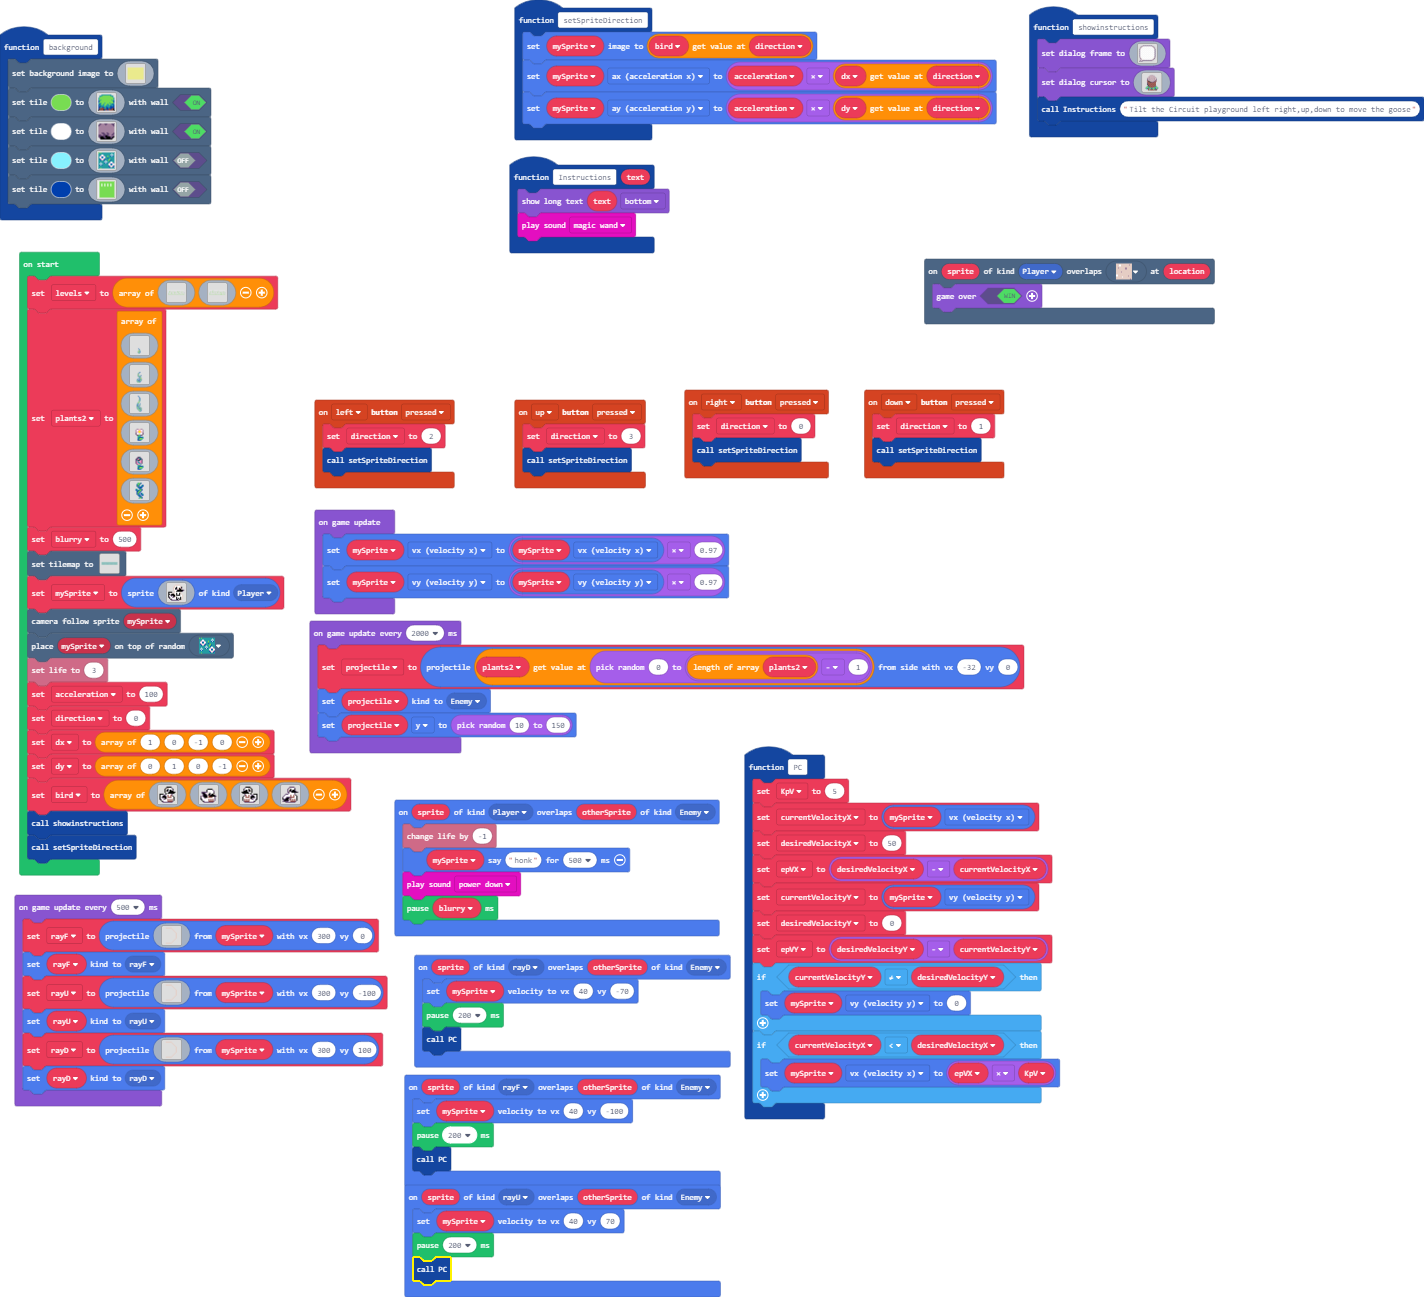
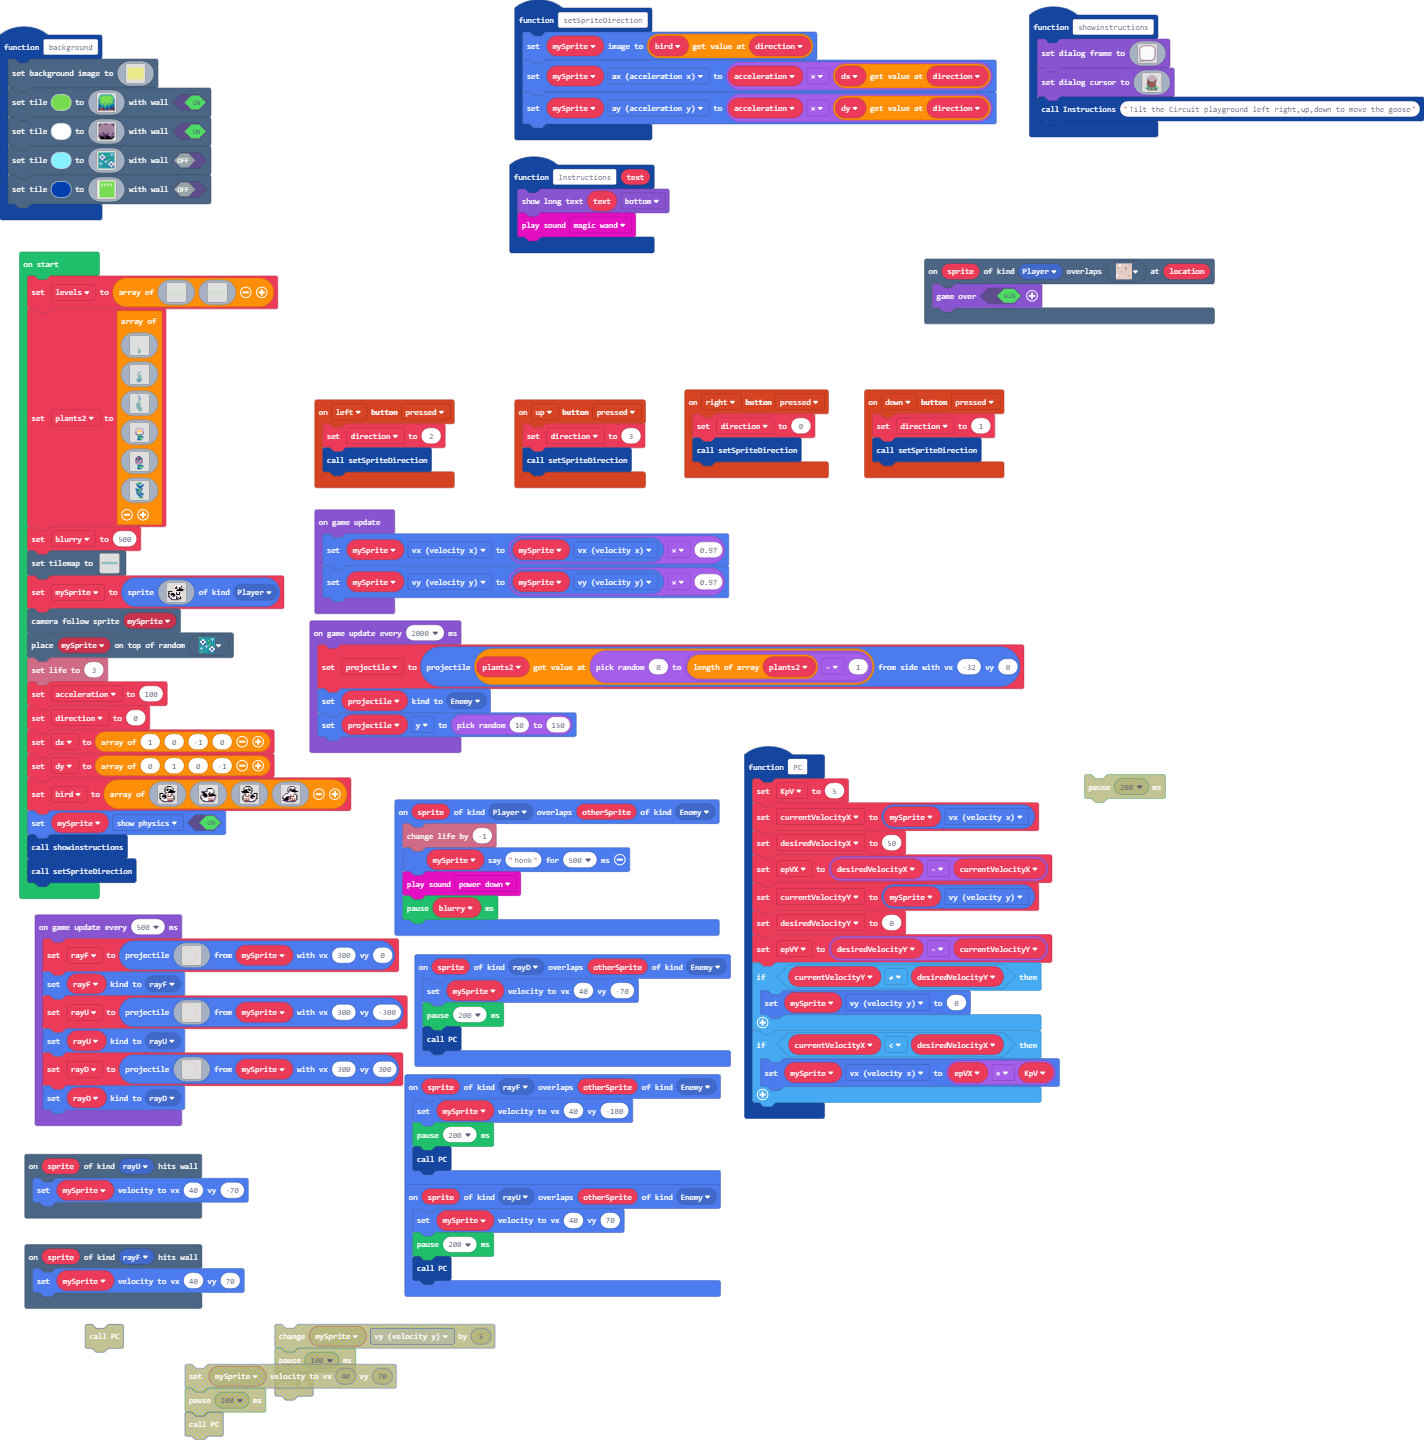
Update main.blocks, main.ts

diff --git a/main.ts b/main.ts
@@ -25,21 +25,6 @@ namespace myTiles {
 . . . . . . . . . . . . . . . . 
 `
 }
-function PC () {
-    KpV = 5
-    currentVelocityX = mySprite.vx
-    desiredVelocityX = 50
-    epVX = desiredVelocityX - currentVelocityX
-    currentVelocityY = mySprite.vy
-    desiredVelocityY = 0
-    epVY = desiredVelocityY - currentVelocityY
-    if (currentVelocityY != desiredVelocityY) {
-        mySprite.vy = 0
-    }
-    if (currentVelocityX < desiredVelocityX) {
-        mySprite.vx = epVX * KpV
-    }
-}
 function showinstructions () {
     game.setDialogFrame(img`
 . . . . . c c c c c c c c c c c c c c . . . . . 
@@ -107,6 +92,9 @@ sprites.onOverlap(SpriteKind.rayD, SpriteKind.Enemy, function (sprite, otherSpri
 controller.down.onEvent(ControllerButtonEvent.Pressed, function () {
     direction = 1
     setSpriteDirection()
+})
+scene.onHitWall(SpriteKind.rayF, function (sprite) {
+    mySprite.setVelocity(40, 70)
 })
 sprites.onOverlap(SpriteKind.rayU, SpriteKind.Enemy, function (sprite, otherSprite) {
     mySprite.setVelocity(40, 70)
@@ -328,11 +316,29 @@ controller.right.onEvent(ControllerButtonEvent.Pressed, function () {
     direction = 0
     setSpriteDirection()
 })
+function PC () {
+    KpV = 5
+    currentVelocityX = mySprite.vx
+    desiredVelocityX = 50
+    epVX = desiredVelocityX - currentVelocityX
+    currentVelocityY = mySprite.vy
+    desiredVelocityY = 0
+    epVY = desiredVelocityY - currentVelocityY
+    if (currentVelocityY != desiredVelocityY) {
+        mySprite.vy = 0
+    }
+    if (currentVelocityX < desiredVelocityX) {
+        mySprite.vx = epVX * KpV
+    }
+}
 function setSpriteDirection () {
     mySprite.setImage(bird[direction])
     mySprite.ax = acceleration * dx[direction]
     mySprite.ay = acceleration * dy[direction]
 }
+scene.onHitWall(SpriteKind.rayU, function (sprite) {
+    mySprite.setVelocity(40, -70)
+})
 controller.up.onEvent(ControllerButtonEvent.Pressed, function () {
     direction = 3
     setSpriteDirection()
@@ -718,6 +724,7 @@ f c c f f f d c e 1 e 1 e 1 f .
 c c f c c c 1 1 e e e e e c . . 
 . . . c c c c c c c c c c . . . 
 `]
+mySprite.setFlag(SpriteFlag.ShowPhysics, true)
 showinstructions()
 setSpriteDirection()
 game.onUpdateInterval(2000, function () {
@@ -766,7 +773,7 @@ game.onUpdateInterval(500, function () {
 . . . . . . . . . d . . . . . . 
 . . . . . . . . d . . . . . . . 
 . . d d d d d d . . . . . . . . 
-`, mySprite, 300, -100)
+`, mySprite, 300, -300)
     rayU.setKind(SpriteKind.rayU)
     rayD = sprites.createProjectileFromSprite(img`
 . . d d d d d d . . . . . . . . 
@@ -785,6 +792,6 @@ game.onUpdateInterval(500, function () {
 . . . . . . . . . d . . . . . . 
 . . . . . . . . d . . . . . . . 
 . . d d d d d d . . . . . . . . 
-`, mySprite, 300, 100)
+`, mySprite, 300, 300)
     rayD.setKind(SpriteKind.rayD)
 })
